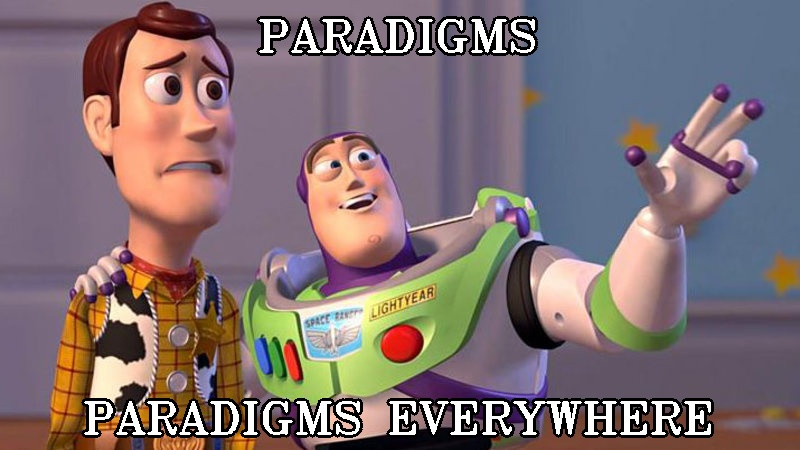
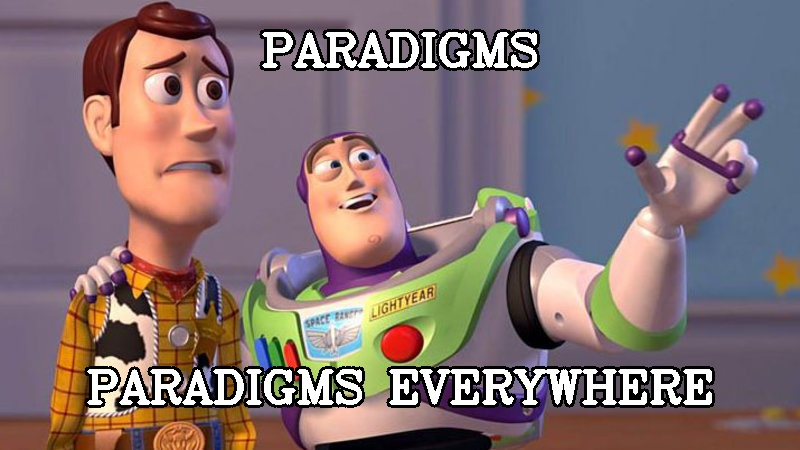
task03/meme: add vertical alignment requirements; update example

Changed region(s): [[0.0938, 0.8089, 0.9062, 0.9956], [0.3125, 0.0311, 0.6875, 0.1556]]

diff --git a/task03/README.md b/task03/README.md
@@ -142,8 +142,8 @@ PARADIGMS EVERYWHERE
 - Каждая строчка состоит только из латинских букв и пунктуации, имеет длину не более 20 символов.
 - Для размещения текста на картинке рекомендуется использовать функцию `cv2.putText`.
 - Текст должен быть белым (`#ffffff`) с черной (`#000000`) обводкой; обводку можно проэмулировать, меняя толщину шрифта.
-- Обе строки должны быть горизонтально выровнены по центру.
-- Картинка имеет размер хотя бы 800x450 пикселей.
+- Обе строки должны быть горизонтально и вертикально выровнены по центру в своей четверти (с учётом всех выступающих элементов).
+- Картинка на входе имеет размер хотя бы 800x450 пикселей.
 - Любое сочетание из корректных строчек должно целиком помещаться на картинке.
 - Можно использовать любой доступный в OpenCV шрифт, позволяющий нормально отобразить буквы латинского алфавита, кроме `Comic Sans` и `Papyrus`.
 - Требуется, чтобы вертикальная координата baseline текста всегда оставалась на одном месте (для картинок одинакового разрешения).
